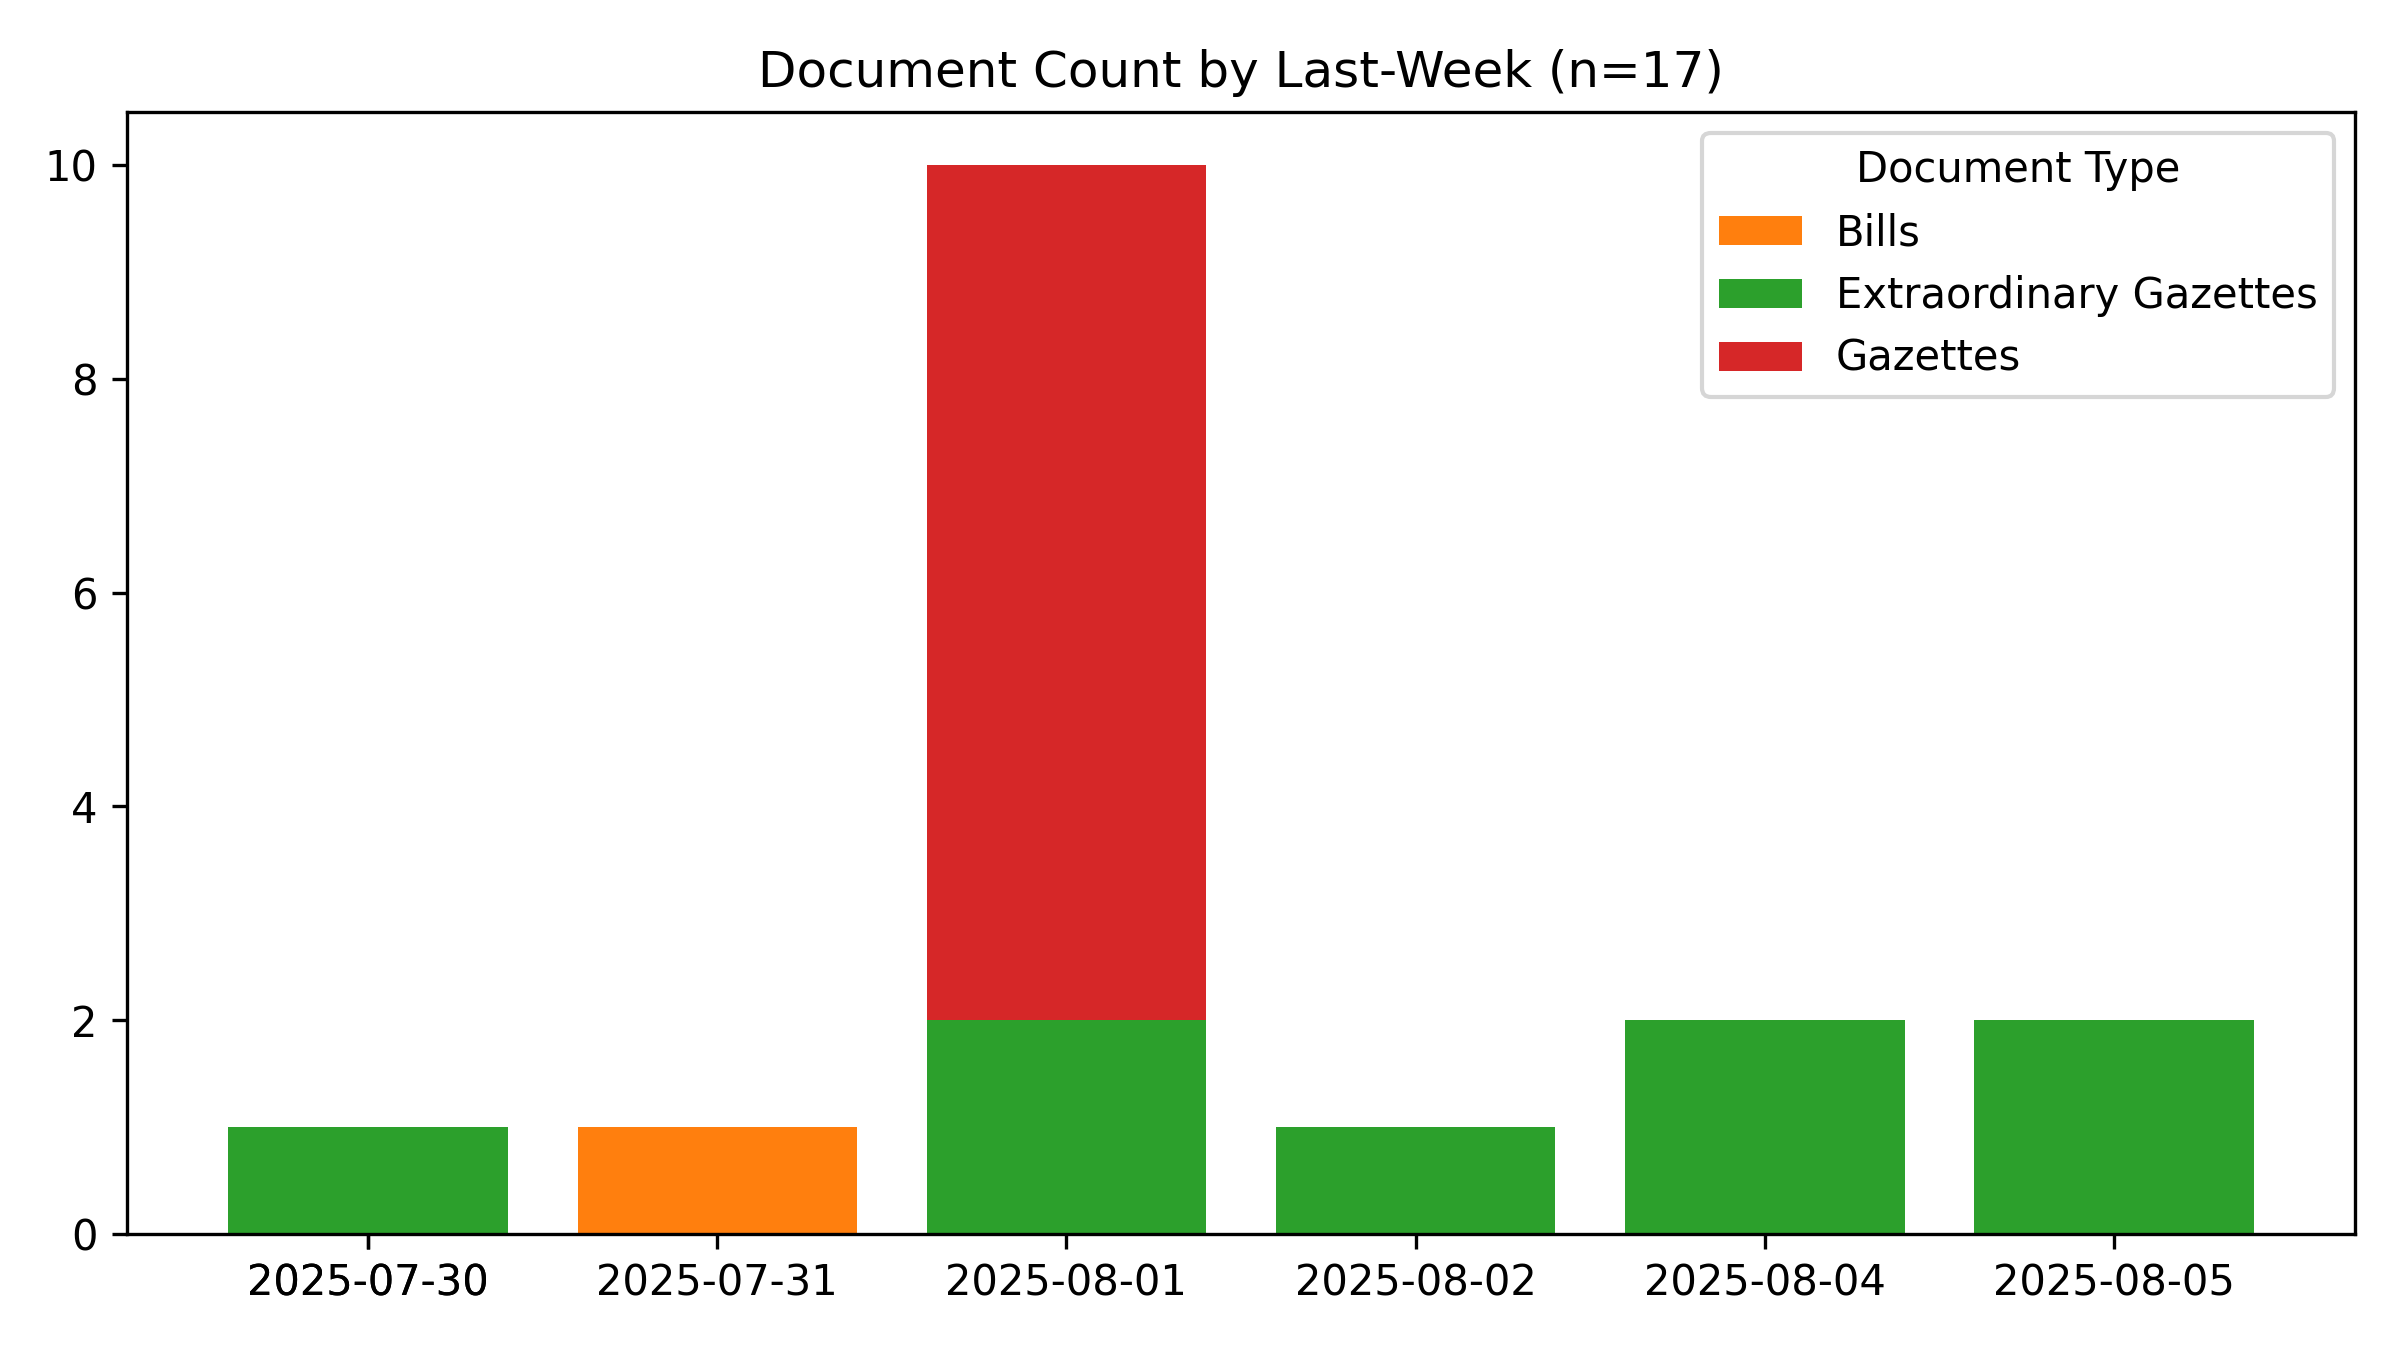
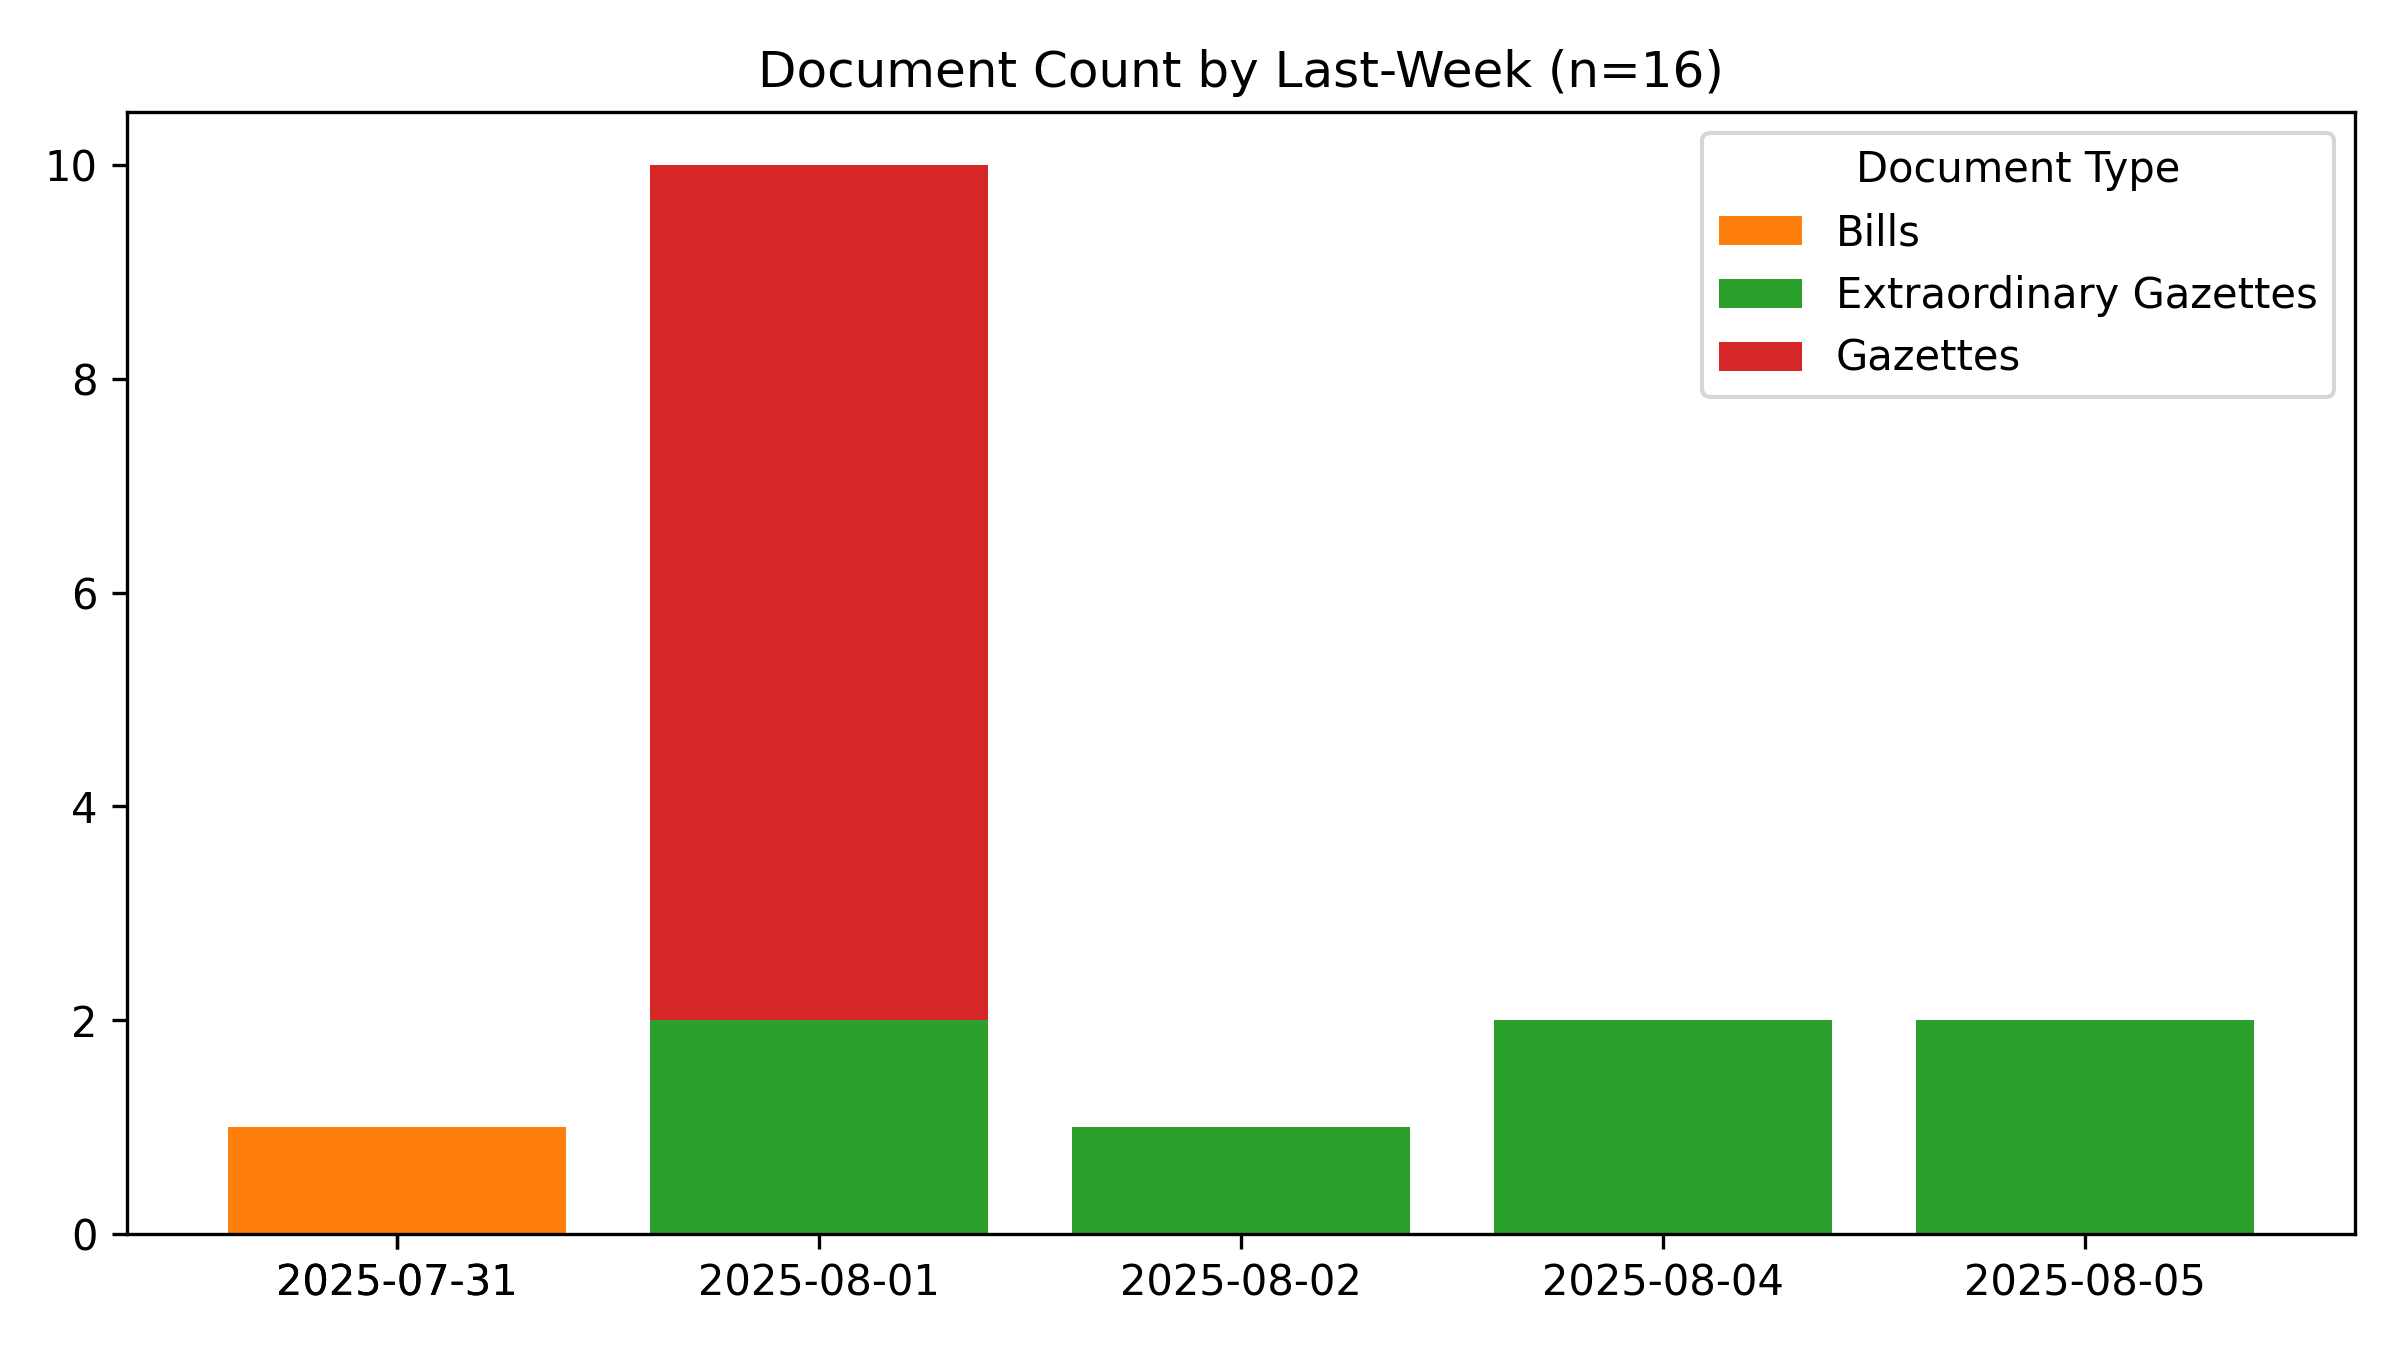
🤖 [build_readme.yml] 2025-08-07-0017

Changed region(s): [[0.0938, 0.1244, 0.9375, 0.9644], [0.6875, 0.0311, 0.7188, 0.0622]]

diff --git a/README.md b/README.md
@@ -1,6 +1,6 @@
 # #SriLanka 🇱🇰 - Legal Documents #Dataset
 
-*Last Updated **2025-08-07 05:14:55**.*
+*Last Updated **2025-08-07 05:47:36**.*
 
 **44,226** documents (24.2 MB), from 1981-01-22 to 2025-08-05.
 
@@ -56,7 +56,7 @@ For best results, use a desktop browser.
 
 ## Recent Documents (Published during the last 7 days)
 
-**17** Documents
+**16** Documents
 
 - 🚨 [2025-08-05] [2448/18](https://github.com/nuuuwan/lk_legal_docs_data/tree/data_2020s/data/extra-gazettes/2025/2448-18)
 - 🚨 [2025-08-05] [Elections Commission - Notice under Section 66 A(1) (a) Filling of a vacancy in the Office of  Member of the Manmunai Pattu Pradeshiya Sabha.](https://github.com/nuuuwan/lk_legal_docs_data/tree/data_2020s/data/extra-gazettes/2025/2448-17)
@@ -74,4 +74,3 @@ For best results, use a desktop browser.
 - 📢 [2025-08-01] [(IIA) - Advertising](https://github.com/nuuuwan/lk_legal_docs_data/tree/data_2020s/data/gazettes/2025/2025-08-01-iia-advertising)
 - 📢 [2025-08-01] [(I) - General](https://github.com/nuuuwan/lk_legal_docs_data/tree/data_2020s/data/gazettes/2025/2025-08-01-i-general)
 - ✍ [2025-07-31] [PresidentsÃ¢â¬â¢ Entitlements (Repeal) - GS](https://github.com/nuuuwan/lk_legal_docs_data/tree/data_2020s/data/bills/2025/624-2025)
-- 🚨 [2025-07-30] [Election Commission - Notice under Section 66 A(1) Filling of a Vacancy in the office of members of the Walikaman West Pradeshiya Sabha](https://github.com/nuuuwan/lk_legal_docs_data/tree/data_2020s/data/extra-gazettes/2025/2447-28)
